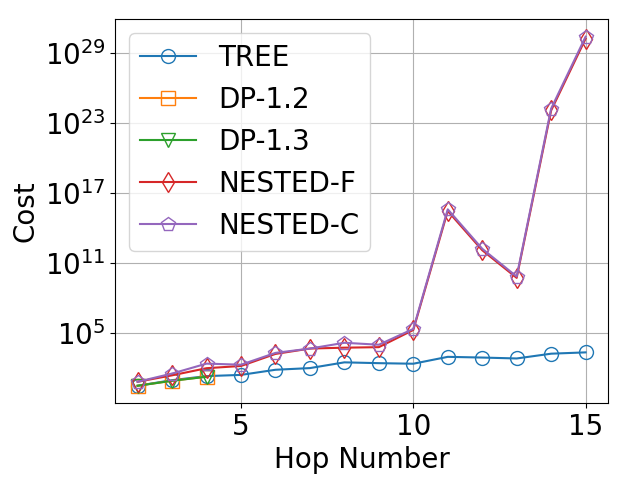
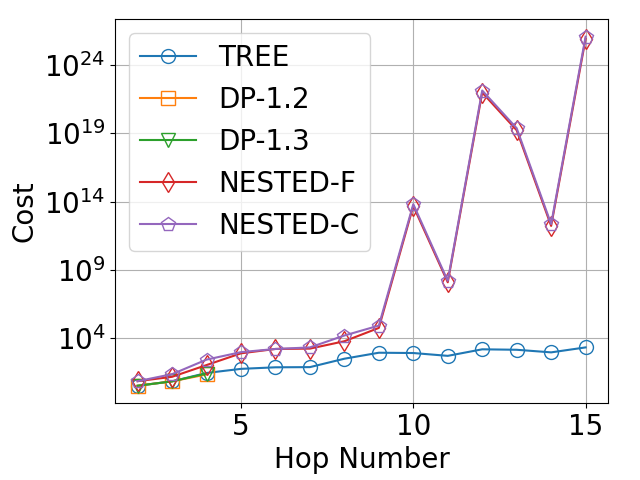
path exp test finished

diff --git a/src/eval_path_infocom.py b/src/eval_path_infocom.py
@@ -258,7 +258,7 @@ def test_binary_cost_1(fth, exp_num):
     filename = "data/path/dp_path_fid_f={}_1.png".format(fth)
     draw_lines(x, ys, xlabel, ylabel, labels, markers, filename=filename, ylim=(0.5, 1))
 
-def test_binary_cost_all(fth, exp_num, gate=qu.GDP):
+def test_binary_cost_2(fth, exp_num, gate=qu.GDP_LOSH):
     if gate == qu.GDP:
         gate_desc = "P"
     elif gate == qu.GDP_LOSH:
@@ -406,6 +406,166 @@ def test_binary_cost_all(fth, exp_num, gate=qu.GDP):
     ylabel = "Fidelity"
     filename = "data/path/binary_path_fid_f={}_noise={}.png".format(fth, gate_desc)
     draw_lines(x, ys, xlabel, ylabel, labels, markers, filename=filename, ylim=(0.5, 1))
+
+
+
+def test_binary_cost_all(fth, exp_num, gate=qu.GDP_LOSH):
+    if gate == qu.GDP:
+        gate_desc = "P"
+    elif gate == qu.GDP_LOSH:
+        gate_desc = "H"
+    elif gate == qu.GDP_LOSM:
+        gate_desc = "M"
+    elif gate == qu.GDP_LOSL:
+        gate_desc = "L"
+
+    cost_cap = 1e5
+    edge_num_range = range(2, 16, 1)
+    # edge_num_range = range(4, 11, 2)
+
+    binary_edge_limit = 4
+    if fth <= 0.99:
+        if gate == qu.GDP:
+            binary_edge_limit = 8
+        elif gate == qu.GDP_LOSH:
+            binary_edge_limit = 4
+    if fth <= 0.9:
+        if gate == qu.GDP:
+            binary_edge_limit = 10
+        elif gate == qu.GDP_LOSH:
+            binary_edge_limit = 5
+
+    # labels = ["TREE", "NESTED-F", "NESTED-C", "DP-1.2", "DP-1.3"]
+    labels = ["TREE", "DP-1.2", "DP-1.3", "GRDY", "EPP", "NESTED-F", "NESTED-C", ]
+
+    NESTED_EDGE_NUMS = edge_num_range
+
+    costs = np.zeros((len(edge_num_range), len(labels)))
+    times = np.zeros((len(edge_num_range), len(labels)))
+    fids = np.zeros((len(edge_num_range), len(labels)))
+    for edge_num in edge_num_range:
+        test_cost = np.zeros((len(labels)))
+        test_time = np.zeros((len(labels)))
+        test_fid = np.zeros((len(labels)))
+
+        for i in range(exp_num):
+            edges = test_edges_gen(edge_num, (0.7, 0.95))
+
+            start = time.time()
+            f, allocs = test_TreeSolver(edges, gate, fth, cost_cap, False)
+            idx = labels.index("TREE")
+            test_time[idx] += time.time() - start
+            test_cost[idx] += sum(allocs)
+            test_fid[idx] += f
+            tree_budget = np.ceil(sum(allocs)).astype(int)
+
+            start = time.time()
+            f, allocs = test_GRDSolver(edges, gate, fth, cost_cap,
+                                    MetaTree.Shape.LINKED, MetaTree.Shape.LINKED)
+            idx = labels.index("GRDY")
+            test_time[idx] += time.time() - start
+            test_cost[idx] += sum(allocs)
+            test_fid[idx] += f
+
+            start = time.time()
+            f, allocs = test_EPPSolver(edges, gate, fth, cost_cap,
+                                    MetaTree.Shape.LINKED, MetaTree.Shape.LINKED)
+            idx = labels.index("EPP")
+            test_time[idx] += time.time() - start
+            test_cost[idx] += sum(allocs)
+            test_fid[idx] += f
+                
+            idx1 = labels.index("DP-1.2") 
+            idx2 = labels.index("DP-1.3")
+            if  edge_num <= binary_edge_limit:
+                start = time.time()
+                f, allocs = test_DPSolver(edges, gate, int(tree_budget*1.2), eps=0)
+                test_time[idx1] += time.time() - start
+                test_cost[idx1] += sum(allocs)
+                test_fid[idx1] += f
+
+                start = time.time()
+                f, allocs = test_DPSolver(edges, gate, int(tree_budget*1.3), eps=0)
+                test_time[idx2] += time.time() - start
+                test_cost[idx2] += sum(allocs)
+                test_fid[idx2] += f
+            else:
+                test_time[idx1] += np.nan
+                test_cost[idx1] += np.nan
+                test_fid[idx1] += np.nan
+
+                test_time[idx2] += np.nan
+                test_cost[idx2] += np.nan
+                test_fid[idx2] += np.nan
+
+            idx1 = labels.index("NESTED-F")
+            idx2 = labels.index("NESTED-C")
+            if edge_num in NESTED_EDGE_NUMS:
+                start = time.time()
+                f, allocs = test_NestedSolver(edges, gate, budget=tree_budget, M_option='floor')
+                test_time[idx1] += time.time() - start
+                test_cost[idx1] += sum(allocs)
+                test_fid[idx1] += f
+
+                start = time.time()
+                f, allocs = test_NestedSolver(edges, gate, budget=tree_budget, M_option='ceil')
+                test_time[idx2] += time.time() - start
+                test_cost[idx2] += sum(allocs)
+                test_fid[idx2] += f
+            else:
+                test_time[idx1] += np.nan
+                test_cost[idx1] += np.nan
+                test_fid[idx1] += np.nan
+
+                test_time[idx2] += np.nan
+                test_cost[idx2] += np.nan
+                test_fid[idx2] += np.nan
+
+
+                                      
+
+
+        costs[edge_num_range.index(edge_num)] = test_cost / exp_num
+        times[edge_num_range.index(edge_num)] = test_time / exp_num
+        fids[edge_num_range.index(edge_num)] = test_fid / exp_num
+
+        print("edge num {} done".format(edge_num))
+
+    x = edge_num_range
+    ys = costs.T
+    xlabel = "Hop Number"
+    ylabel = "Cost"
+    markers = ['o', 's', 'v', 'd', 'p', 'x', 'h', '>', '<']
+    # default color cycle
+    colors = plt.rcParams['axes.prop_cycle'].by_key()['color']
+    filename = "data/path/binary_path_cost_f={}_noise={}.png".format(fth, gate_desc)
+    draw_lines(x, ys, xlabel, ylabel, labels, markers, filename=filename, yscale='log')
+
+    ys1 = costs[:, :3].T
+    ys2 = costs[:, 3:].T
+    filename = "data/path/binary_path_cost_f={}_noise={}_2y.png".format(fth, gate_desc)
+    draw_2y_lines(x, ys1, ys2, xlabel, 
+        y1_label=ylabel, y2_label=ylabel,
+        line1_labels=labels[:3], line2_labels=labels[3:],
+        line1_colors=colors[:3], line2_colors=colors[3:],
+        line1_markers=markers[:3], line2_markers=markers[3:],
+        xscale='linear', y1_scale='linear', y2_scale='log',
+        xreverse=False, y1_reverse=False, y2_reverse=False,
+        xlim=None, y1_lim=None, y2_lim=(1e0, 1e5),
+        filename=filename,
+        )
+
+    ys = times.T
+    ylabel = "Time (s)"
+    filename = "data/path/binary_path_time_f={}_noise={}.png".format(fth, gate_desc)
+    draw_lines(x, ys, xlabel, ylabel, labels, markers, filename=filename, yscale='log')
+
+    ys = fids.T
+    ylabel = "Fidelity"
+    filename = "data/path/binary_path_fid_f={}_noise={}.png".format(fth, gate_desc)
+    draw_lines(x, ys, xlabel, ylabel, labels, markers, filename=filename, ylim=(0.5, 1))
+
+
 
 def test_binary_succ_all(fth, exp_num, gate=qu.GDP):
     if gate == qu.GDP:
@@ -1620,9 +1780,9 @@ if __name__ == '__main__':
     exp_num = 1
 
     # 3 figures for different fth
-    # test_binary_cost_all(0.9, exp_num)
-    # test_binary_cost_all(0.99, exp_num)
-    # test_binary_cost_all(0.9999, exp_num)
+    test_binary_cost_all(0.9, exp_num)
+    test_binary_cost_all(0.99, exp_num)
+    test_binary_cost_all(0.9999, exp_num)
 
     # 3 figures for different noise
     # test_binary_succ_all(0.9, exp_num, gate=qu.GDP)    
@@ -1638,8 +1798,8 @@ if __name__ == '__main__':
     # 3 figures for different noise (Werner)
     # test_werner_succ does not differ much, test_werner_cost is enough
     # test_werner_cost(0.9, exp_num, gate=qu.GWP)
-    test_werner_cost(0.9, exp_num, gate=qu.GWM)
     # test_werner_cost(0.9, exp_num, gate=qu.GWH)
+    # test_werner_cost(0.9, exp_num, gate=qu.GWM)
     # test_werner_cost(0.9, exp_num, gate=qu.GWL)
 
     # test_wn_sys_full(0.8, 10)
